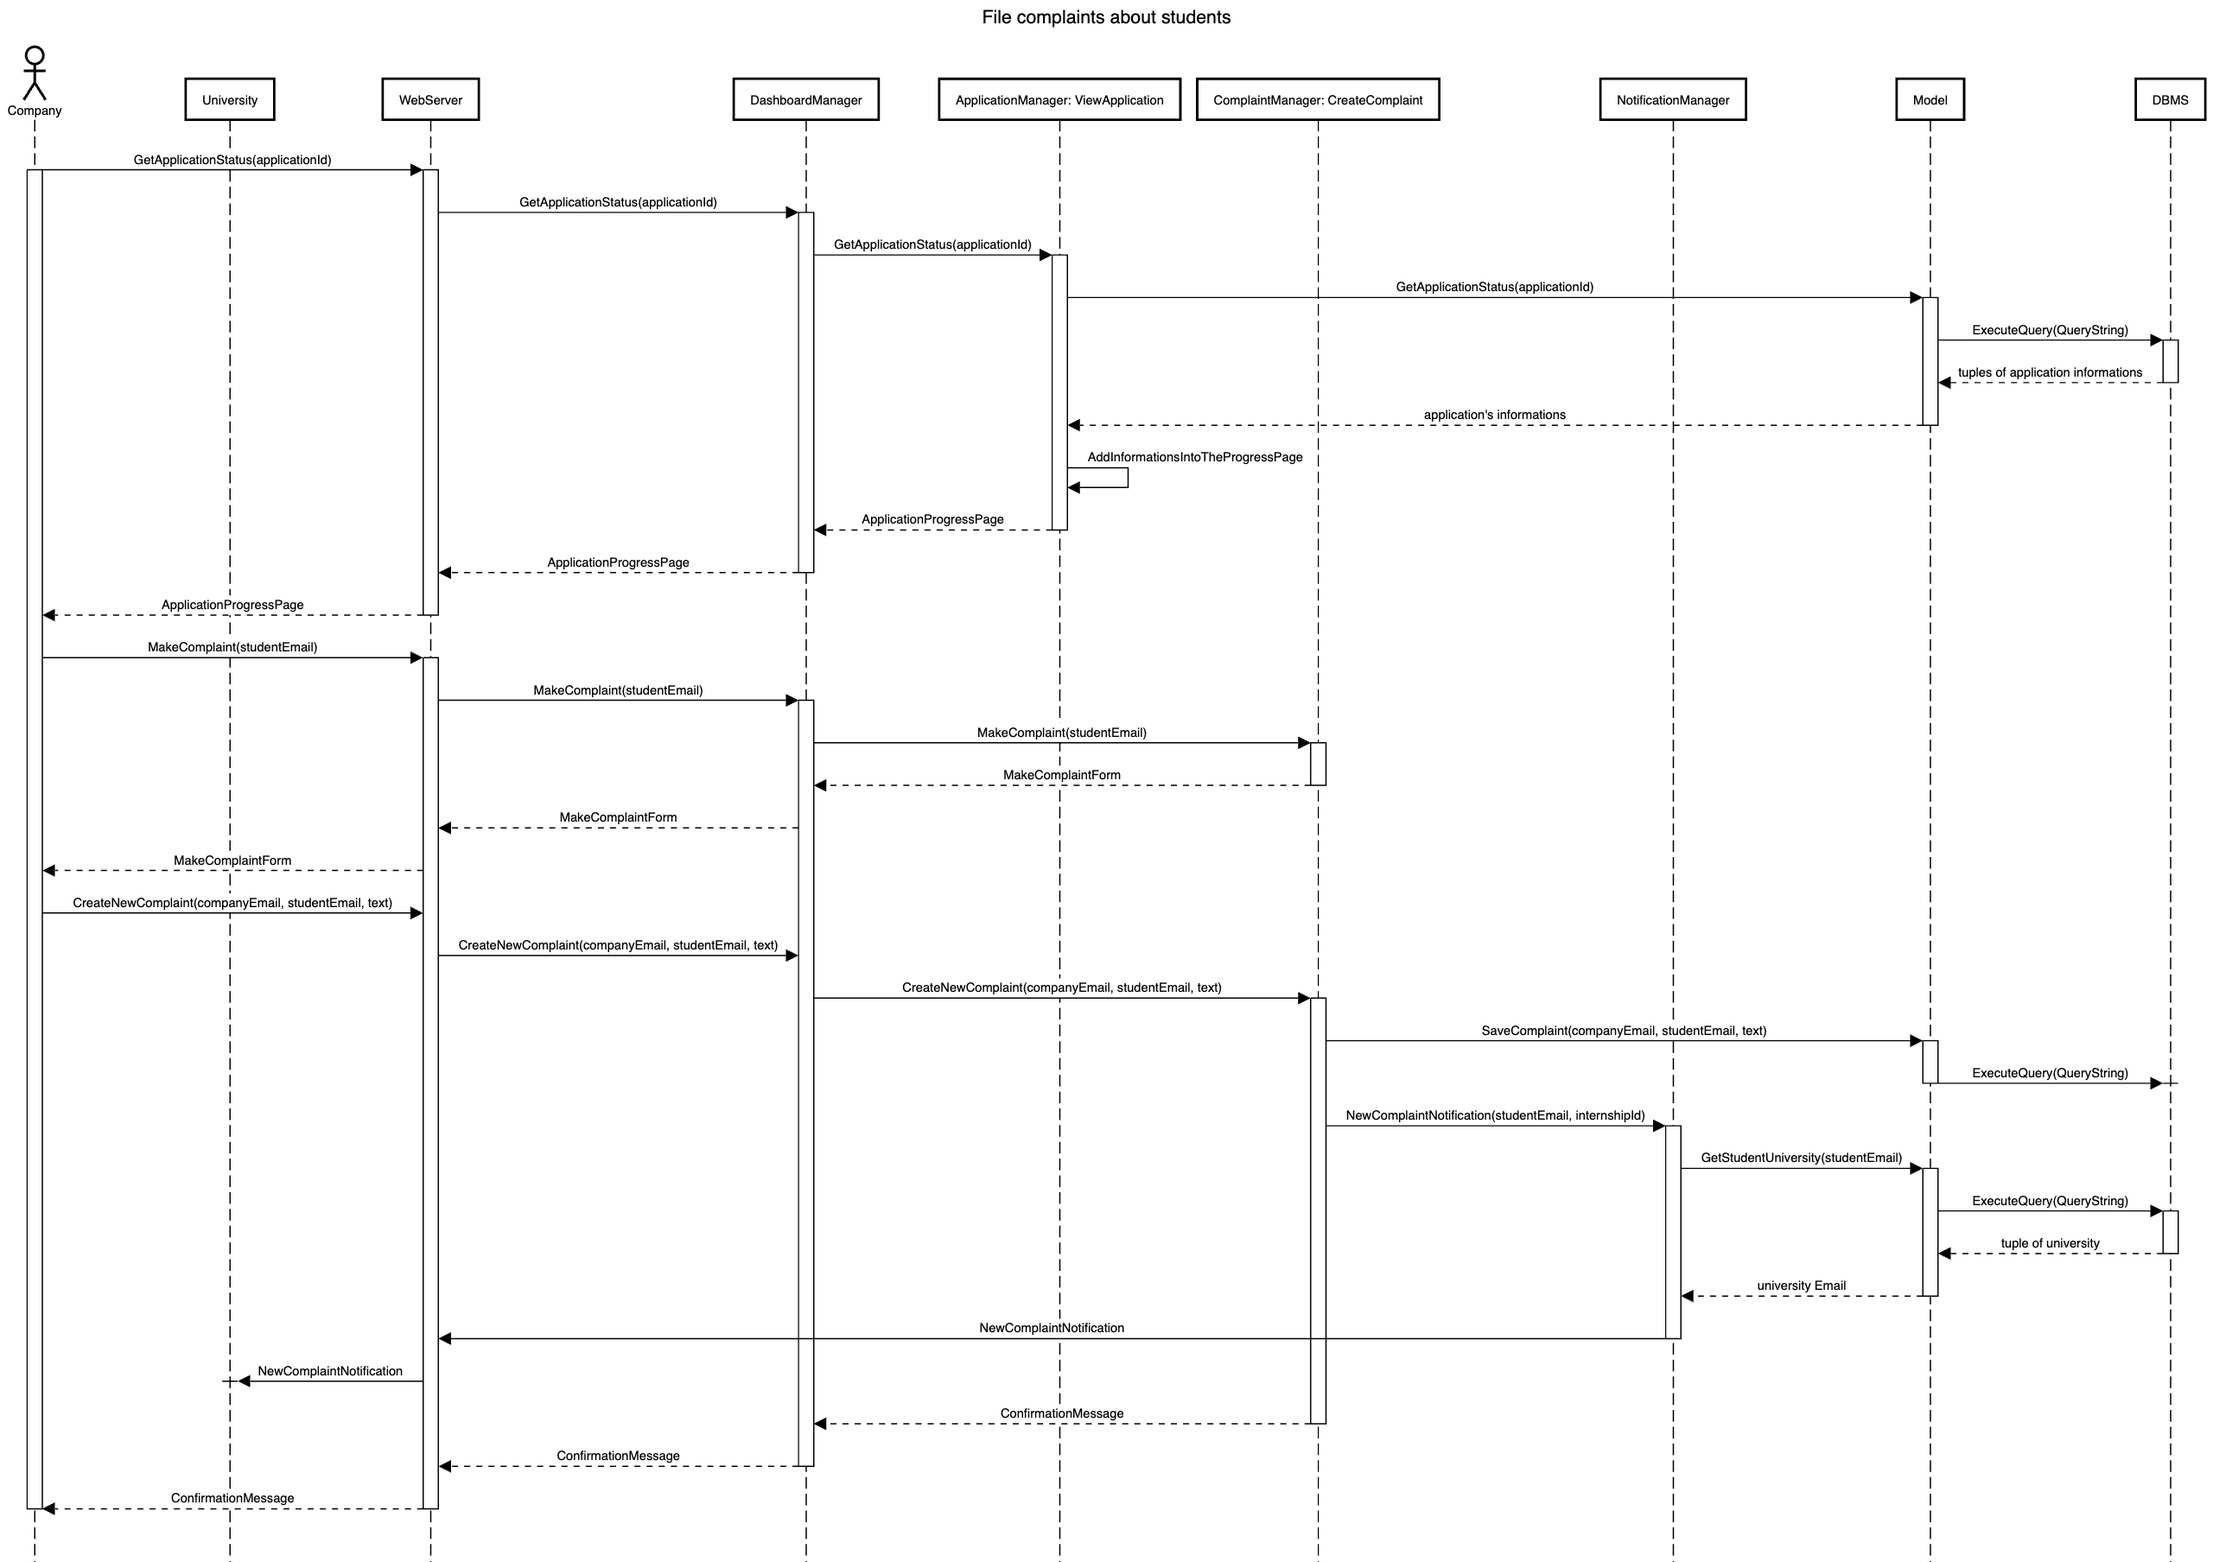
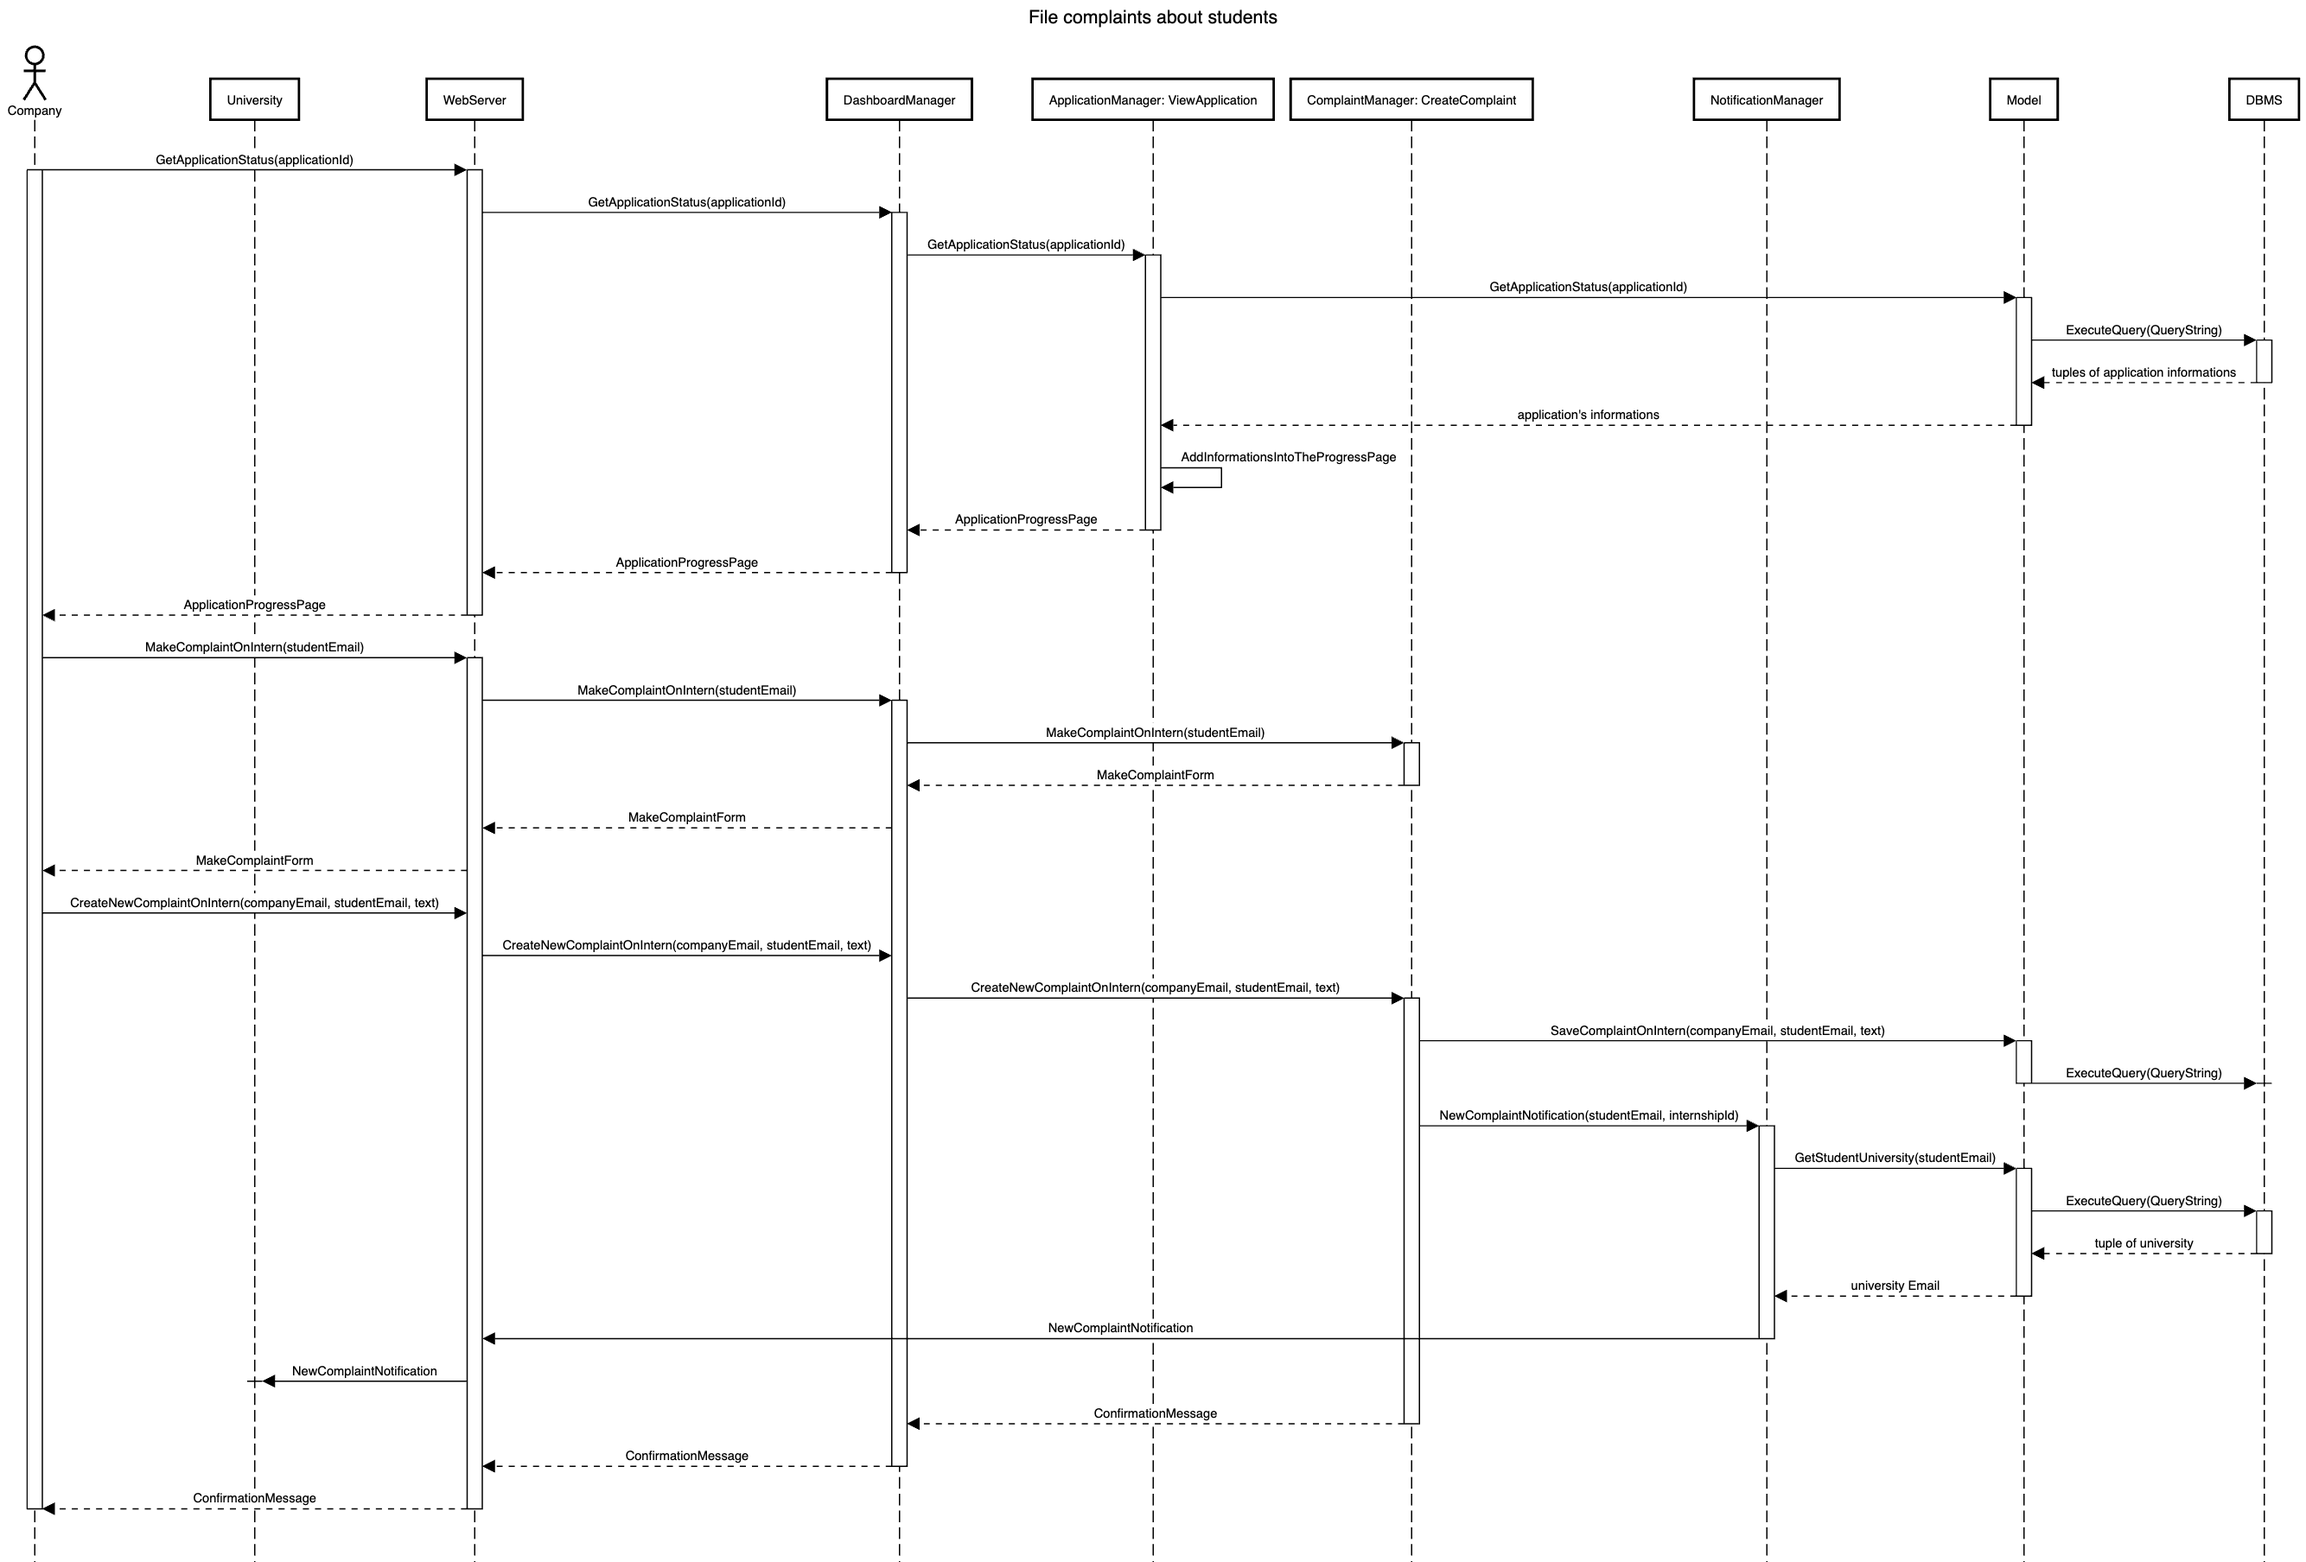
Updates from Overleaf

diff --git a/DD/LaTeX/Chapters/2_Architectural_Design.tex b/DD/LaTeX/Chapters/2_Architectural_Design.tex
@@ -548,17 +548,28 @@ This sequence diagram shows how the Users are notified about a new matching. Per
 \item GetCompletedInternships(\textit{String} email)
 \item SaveFeedback(\textit{String} email, \textit{String} internshipId, \textit{String} text)
 \item GetAppliedInternship(\textit{String} email)
-\item SaveComplaint(\textit{String} email, \textit{String} internshipId, \textit{String} text)
+\item SaveComplaintOnInternship(\textit{String} email, \textit{String} internshipId, \textit{String} text)
 \item SaveComplaint(\textit{String} companyEmail, \textit{String} studentEmail, \textit{String} text)
 \item GetStudentUniversity(\textit{String} email)
 \item SaveNewInternship(\textit{String} companyEmail, \textit{String} name,  \textit{String} applicationDomain, \textit{String} tasks, \textit{String} technologies, \textit{String}  terms)
 \item GetInterestedStudents(\textit{String} applicationDomain, \textit{String} tasks, \textit{String} technologies, \textit{String}  terms)
 \item SaveChanges(\textit{String} internshipId, field, content)
-\item CancelInterneship(\textit{String} internshipId)
+\item RemoveInterneship(\textit{String} internshipId)
 \item GetSuggestedStudents(\textit{String} internshipId)
 \item SaveInvitation(\textit{String} sutendEmail, \textit{String} internshipId)
 \item GetApplyRequest(\textit{String} internshipId)
 \item GetStudentInformation(\textit{String} email)
+\item GetStudentsApplying()
+\item SaveQuestionnaires(companyEmail, studentEmail, questions)
+\item ViewCandidates(\textit{String} internshipId)
+\item FinalizeInternshipSelection(\textit{String} internshipId)
+\item SaveFeedbackOnIntern(\textit{String} studentEmail, \textit{String} companyEmail, \textit{String} txt)
+\item SaveComplaintOnIntern(\textit{String} companyEmail, \textit{String} studentEmail, \textit{String} text)
+\item GetOpenComplaints(\textit{String} universityEmail)
+\item ResolveComplaint(\textit{String} complaintId)
+\item CancelInternship(\textit{String} applicationId)
+\item CheckNewFeedback()
+\item CheckNewProfiles()
 \end{itemize}
 
 
@@ -615,28 +626,35 @@ This sequence diagram shows how the Users are notified about a new matching. Per
     \item \textbf{\textbf{ApplicationManager}}
 \begin{itemize}
         \item SubmitQuestionnaire(\textit{List<String>} answers)
+        \item CreateNewTask(\textit{List<String>} studentEmails)
+        \item SelectStudents(\textit{List<String>} studentEmails)
+        \item CreateFeedbackOnIntern(\textit{String} studentEmail)
+        \item CreateNewFeedbackOnIntern(\textit{String} studentEmail, \textit{String} companyEmail, \textit{String} txt)
 \end{itemize}
 
     \item \textbf{\textbf{ComplaintManager}}
 \begin{itemize}
-        \item MakeComplaint(\textit{String} internshipId)
-        \item CreateNewComplaint(\textit{String} email, \textit{String} internshipId, \textit{String} text)
-        \item 
+        \item MakeComplaintOnInternship(\textit{String} internshipId)
+        \item CreateNewComplaintOnInternship(\textit{String} email, \textit{String} internshipId, \textit{String} text)
+        \item MakeComplaintOnIntern(\textit{String} studentEmail)
+        \item CreateNewComplaintOnIntern(\textit{String} companyEmail, \textit{String} studentEmail, \textit{String} text)
+        \item OpenChat(\textit{String} studentEmail)
 \end{itemize}
 
     \item \textbf{\textbf{RecommendationManager}}
 \begin{itemize}
         \item InformInterestedStudents(\textit{String} applicationDomain, \textit{String} tasks, \textit{String} technologies, \textit{String}  terms)
+        \item NewMatches(\textit{})
 \end{itemize}
 
 \end{itemize}
 
 \begin{itemize}
-    \item \textbf{\textbf{JoinBattle}}
+    \item \textbf{\textbf{EwternalToolServer}}
 \begin{itemize}
-    \item 
+    \item AddNewFeedbacks(\textit{List<String>} feedbacks)
+    \item AddNewProfiles(List<Student> profiles)
     \end{itemize}
-
 
     \item \textbf{\textbf{CreateGroup}}
 \begin{itemize}
@@ -660,6 +678,12 @@ This sequence diagram shows how the Users are notified about a new matching. Per
         \item NewComplaintNotification(\textit{String} companyEmail, \textit{String} studentEmail)
         \item NewInternshipNotification(\textit{String}  companyName, \textit{String} internshipName, \textit{String} applicationDomain, \textit{String} tasks, \textit{String} technologies, \textit{String}  terms)
         \item NewInviteNotification(\textit{String} studentEmail, \textit{String} internshipId)
+        \item NewQuestionnairesNotification(\textit{String} studentEmail)
+        \item NewSelectionNotification(\textit{String} studentEmail)
+        \item NewRejectionNotification(\textit{String} studentEmail)
+        \item NewChatRequestNotification(String email)
+        \item NewCancelInternshipNotification(\textit{String} internshipId)
+        \item NewMatchNotification(\textit{String} studentEmail, \textit{String} companyEmail)
 \end{itemize}
 
 \end{itemize}
